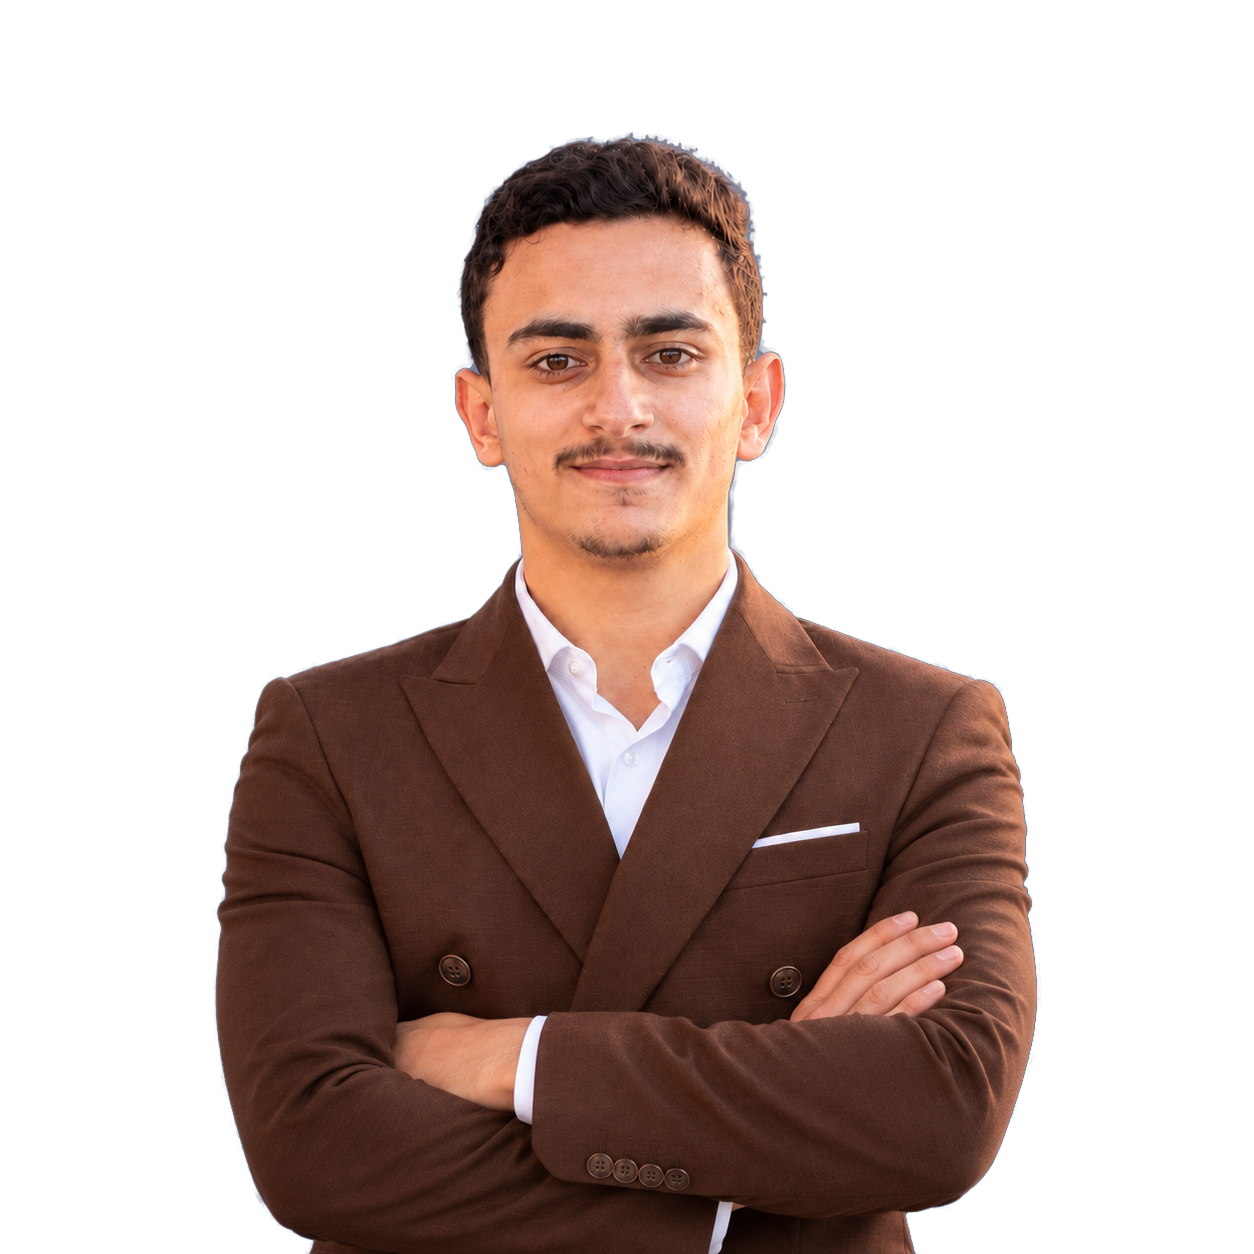
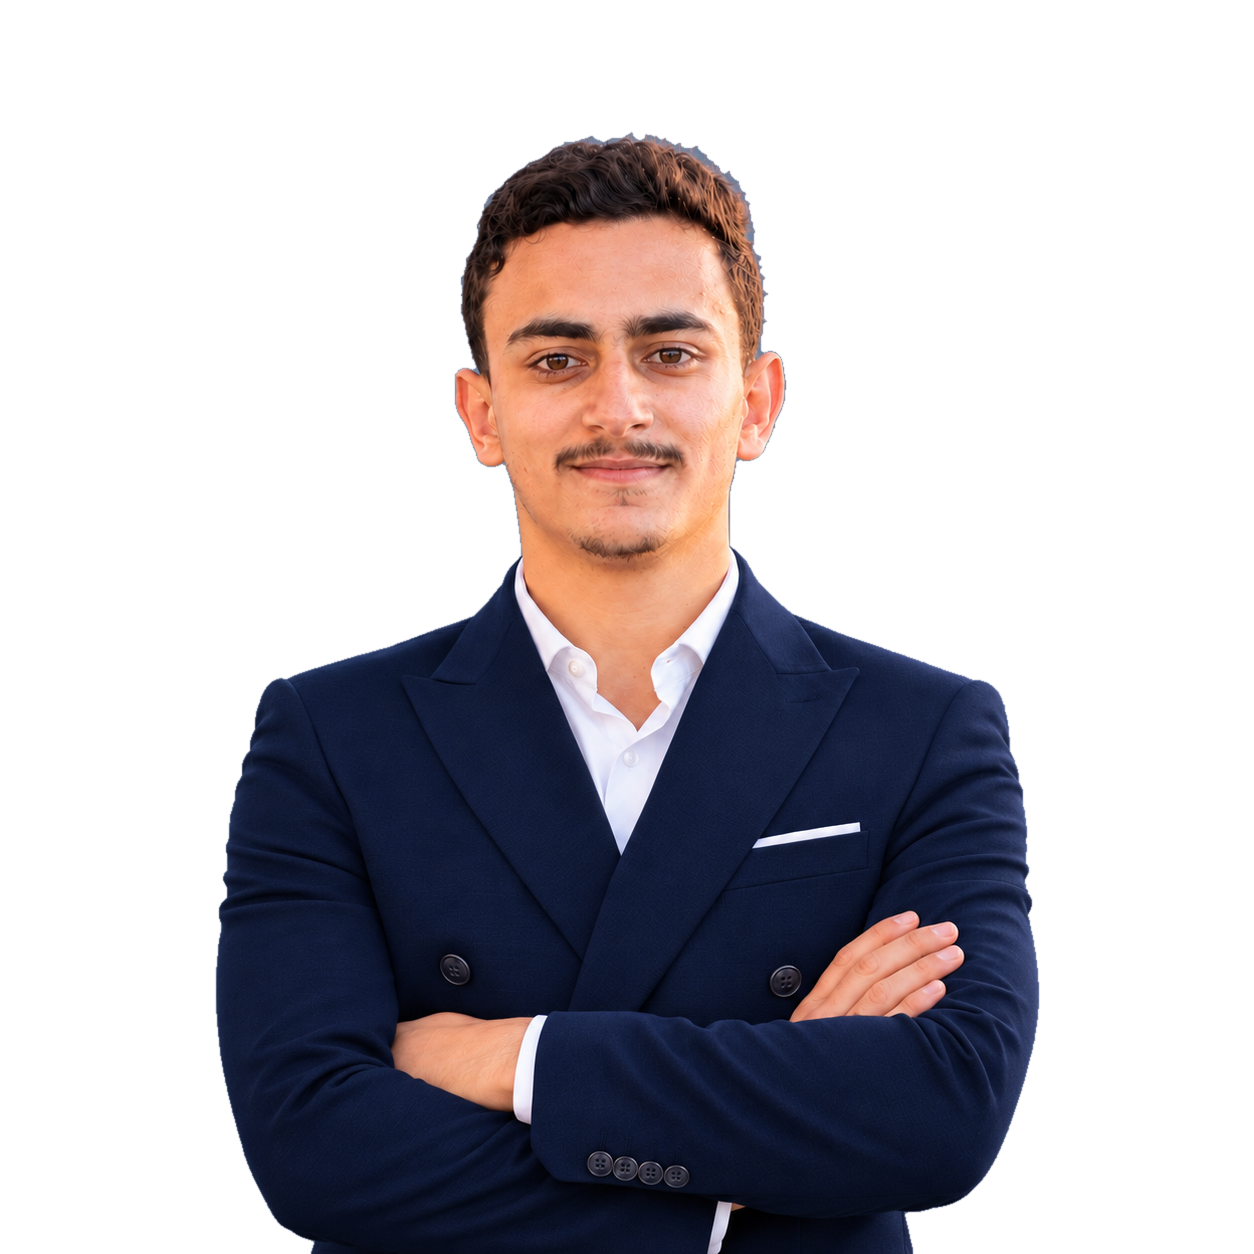
Add files via upload

diff --git a/hero-v5-polish.css b/hero-v5-polish.css
@@ -1,0 +1,80 @@
+/* V5 hero refinement — only presentation changes, no photo pixel edits. */
+:root{
+  --v5-bg:#080F17;
+  --v5-surface:#111B27;
+  --v5-text:#F5F7FA;
+  --v5-muted:#AAB4C2;
+  --v5-amber:#FF963B;
+  --v5-orange:#FF963B;
+  --v5-gradient:linear-gradient(115deg,#FFA34D 0%,#FF963B 80%,#FF963B 100%);
+}
+/* Give the name, main CTA and active navigation a unified orange accent. */
+.hero-2026 h1>span{color:var(--v5-orange)!important;}
+.hero-2026__primary{border-color:#FF963B!important;background:var(--v5-gradient)!important;}
+.site-header .nav-link.is-current,.site-header .nav-link:hover{color:#FF963B!important;}
+.site-header .nav-link::after{background:#FF963B!important;}
+/* Reduce the warm glow behind the photo without altering the portrait. */
+.hero-2026::before{
+  background:
+    radial-gradient(ellipse 44% 59% at 75% 45%,rgba(255,150,59,.115) 0%,rgba(255,150,59,.026) 43%,transparent 70%),
+    radial-gradient(ellipse 40% 55% at 6% 90%,rgba(25,77,91,.15),transparent 73%),
+    linear-gradient(105deg,#080F17 4%,#0b1019 64%,#111B27 100%)!important;
+}
+.hero-2026__visual::before{
+  background:radial-gradient(circle at 52% 43%,rgba(255,150,59,.11) 0%,rgba(255,150,59,.032) 29%,transparent 60%)!important;
+  inset:8% -2% 4%!important;
+}
+/* Exactly one deliberately interrupted fine circle, not several competing arcs. */
+.hero-2026 .v5-halo{
+  width:75%!important;
+  left:12.5%!important;
+  top:11%!important;
+  border:1.5px solid rgba(255,150,59,.29)!important;
+  border-left-color:transparent!important;
+  border-bottom-color:transparent!important;
+  transform:rotate(-22deg)!important;
+  box-shadow:none!important;
+  background:none!important;
+}
+.hero-2026 .v5-halo::before,.hero-2026 .v5-halo::after{content:none!important;display:none!important;}
+/* Rebalance visual halves: less empty gutter, roomier paragraph. */
+@media (min-width:901px){
+  .hero-2026__inner{
+    grid-template-columns:minmax(0,1.02fr) minmax(0,.98fr)!important;
+    gap:clamp(5px,.8vw,14px)!important;
+  }
+  .hero-2026__description{max-width:585px!important;}
+}
+/* Preserve the original source portrait; only soften the bottom mask. */
+.hero-2026__portrait{
+  -webkit-mask-image:linear-gradient(to bottom,#000 0%,#000 80%,rgba(0,0,0,.98) 86%,rgba(0,0,0,.83) 91%,rgba(0,0,0,.45) 97%,transparent 100%)!important;
+  mask-image:linear-gradient(to bottom,#000 0%,#000 80%,rgba(0,0,0,.98) 86%,rgba(0,0,0,.83) 91%,rgba(0,0,0,.45) 97%,transparent 100%)!important;
+}
+/* Compact typography gap after removing the duplicate student label. */
+.hero-2026 .approved-role{margin-bottom:4px!important;}
+@media (max-width:900px){
+  .hero-2026 .v5-halo{width:75%!important;left:12.5%!important;top:10%!important;}
+  .hero-2026__description{max-width:590px!important;}
+}
+@media (max-width:600px){
+  .hero-2026 .v5-halo{width:78%!important;left:11%!important;top:13%!important;}
+}
+
+/* Hero copy update only: short orange study line and proportionate vertical spacing. */
+#home .hero-2026__student{
+  display:block!important;
+  width:fit-content;
+  max-width:100%;
+  padding:0!important;
+  border:0!important;
+  margin:8px 0 0!important;
+  color:#FF963B!important;
+  font:600 10px/1.6 var(--mono)!important;
+  letter-spacing:.105em!important;
+}
+#home .approved-role{margin-bottom:0!important;}
+#home .hero-2026__description{margin-top:14px!important;margin-bottom:20px!important;}
+@media(max-width:600px){
+  #home .hero-2026__student{font-size:9px!important;letter-spacing:.06em!important;margin-top:7px!important;}
+  #home .hero-2026__description{margin-top:12px!important;margin-bottom:18px!important;}
+}

diff --git a/index.html b/index.html
@@ -31,7 +31,7 @@
 <link href="https://afarhat97.github.io/abdallah-portfolio/" rel="canonical"/>
 <link href="assets/favicon.svg" rel="icon" type="image/svg+xml"/>
 <script defer="" src="script.js"></script>
-<link href="styles.css" rel="stylesheet"/><link href="viewport-v4.css" rel="stylesheet"/><link href="theme-v5.css" rel="stylesheet"/><link href="viewport-v5-fit.css" rel="stylesheet"/><link href="certificates-v5-additions.css" rel="stylesheet"/></head>
+<link href="styles.css" rel="stylesheet"/><link href="viewport-v4.css" rel="stylesheet"/><link href="theme-v5.css" rel="stylesheet"/><link href="viewport-v5-fit.css" rel="stylesheet"/><link href="certificates-v5-additions.css" rel="stylesheet"/><link href="hero-v5-polish.css" rel="stylesheet"/></head>
 <body>
 <svg aria-hidden="true" class="svg-library" focusable="false" xmlns="http://www.w3.org/2000/svg">
 <symbol id="icon-arrow-up" viewbox="0 0 24 24"><path d="M5 19 19 5M7 5h12v12"></path></symbol>
@@ -65,8 +65,9 @@
 <div class="container hero-2026__inner">
 <div class="hero-2026__copy">
 <p class="hero-2026__eyebrow">HELLO, I’M<span aria-hidden="true"></span></p>
-<h1 id="hero-title">Abdallah <span>Farhat</span></h1><p class="approved-role">Software Developer</p><p class="hero-2026__student">SOFTWARE ENGINEERING STUDENT</p>
-<p class="hero-2026__description">I'm a Software Engineering student who enjoys building practical software, solving real-world problems, and turning ideas into working applications.</p>
+<h1 id="hero-title">Abdallah <span>Farhat</span></h1><p class="approved-role">Software Developer</p>
+<p class="hero-2026__student">SOFTWARE ENGINEERING STUDENT | WEB DEVELOPMENT</p>
+<p class="hero-2026__description">I'm a Software Engineering student passionate about developing modern web applications and creating practical solutions to real-world problems. I enjoy exploring new technologies, strengthening my programming skills, and turning ideas into functional, user-friendly digital experiences.</p>
 <div class="hero-2026__actions">
 <a class="hero-2026__primary" href="#projects"><svg aria-hidden="true" class="icon"><use href="#icon-code"></use></svg> View My Projects <svg aria-hidden="true" class="icon"><use href="#icon-arrow-right"></use></svg></a>
 <a class="hero-2026__secondary" href="#contact"><svg aria-hidden="true" class="icon"><use href="#icon-mail"></use></svg> Contact Me</a>
@@ -80,8 +81,8 @@
 <div aria-label="Original photograph of Abdallah Farhat, set against a minimal dark background with orange accents" class="hero-2026__visual" role="group"><div aria-hidden="true" class="v5-halo"></div>
 
 
-<img alt="Abdallah Farhat wearing a brown suit with his arms crossed" class="hero-2026__portrait" decoding="async" fetchpriority="high" height="1254" loading="eager" src="assets/abdallah-hero-portrait-v5.webp" width="1254"/>
-<span aria-hidden="true" class="v5-tech-chip v5-chip-left">JAVA · PROJECTS</span><span aria-hidden="true" class="v5-tech-chip v5-chip-right">PHP / LARAVEL · LEARNING</span></div>
+<img alt="Abdallah Farhat in a navy blue suit with his arms crossed" class="hero-2026__portrait" decoding="async" fetchpriority="high" height="1254" loading="eager" src="assets/abdallah-hero-portrait-v5.webp" width="1254"/>
+</div>
 <a class="hero-2026__scroll" href="#projects"><span aria-hidden="true" class="hero-2026__scroll-symbol">↓</span><span>SCROLL TO EXPLORE</span></a>
 </div>
 </section>

diff --git a/README-UPDATE-AR.md b/README-UPDATE-AR.md
@@ -1,18 +1,11 @@
-# Abdallah Portfolio V5 — نسخة خفيفة جاهزة لـ GitHub
+# Abdallah Portfolio V5 — تحسينات الواجهة الأولى فقط
 
-هذه حزمة الموقع الكاملة للتشغيل، وليست تحديثًا على شكل صورة فقط.
+- أُزيلت بطاقتا المهارات العائمتان.
+- أُزيل سطر SOFTWARE ENGINEERING STUDENT المكرر؛ التعريف الحالي ما زال يوضح الدراسة.
+- خُفف التوهج وأبقي قوس دائري واحد رفيع وغير مكتمل.
+- قُلّص الفراغ بين النص والصورة؛ خُفف تلاشي الصورة من الأسفل.
+- توحّد اللون البرتقالي الأساسي #FF963B في عناصر Hero والتنقل.
+- **لم يتغير أي ملف صورة أو JavaScript أو أي قسم آخر.**
 
-- تشمل Home وAbout وSkills وCertificates (8 شهادات) وProjects وContact.
-- تستخدم صورة البروفايل ذات الذراعين المتقاطعتين في `assets/abdallah-hero-portrait-v5.webp`.
-- الصورة بصيغة WebP **بدون فقد**: كل بكسل مطابق تمامًا لصورة العرض PNG السابقة. لم تُعدّل ملامح الوجه.
-- أُزيلت نسخ الصور القديمة غير المستخدمة من **هذه الحزمة فقط** لتقليل حجم التنزيل؛ صورك الأصلية المرفوعة للمحادثة لم تُمس.
-- بقي تصميم V5 الكحلي والبرتقالي وروابط شهادات Anthropic ووظائف الموقع كما كانت.
-
-## النشر
-1. فك ضغط الملف ZIP.
-2. افتح المستودع `https://github.com/afarhat97/abdallah-portfolio` على الفرع `main`.
-3. ارفع **محتويات** المجلد (الملفات والمجلد `assets`) إلى جذر المستودع. لا ترفع ZIP نفسه.
-4. اعتمد التغييرات بـ Commit changes.
-5. افتح `https://afarhat97.github.io/abdallah-portfolio/` للتأكد من النتيجة.
-
-لا تحتاج حذف الصور القديمة من مستودع GitHub، فهي لن تؤثر على عمل النسخة الجديدة. احتفظ بملف النسخة السابقة احتياطًا.
+## الرفع إلى GitHub
+فك ضغط الحزمة وارفع محتوياتها إلى جذر مستودع `afarhat97/abdallah-portfolio` على فرع `main`؛ لا ترفع ZIP نفسه. إذا كان عندك إصدار V5 Navy نفسه، تكفي حزمة التصحيح الصغيرة: `index.html` و `hero-v5-polish.css`.
